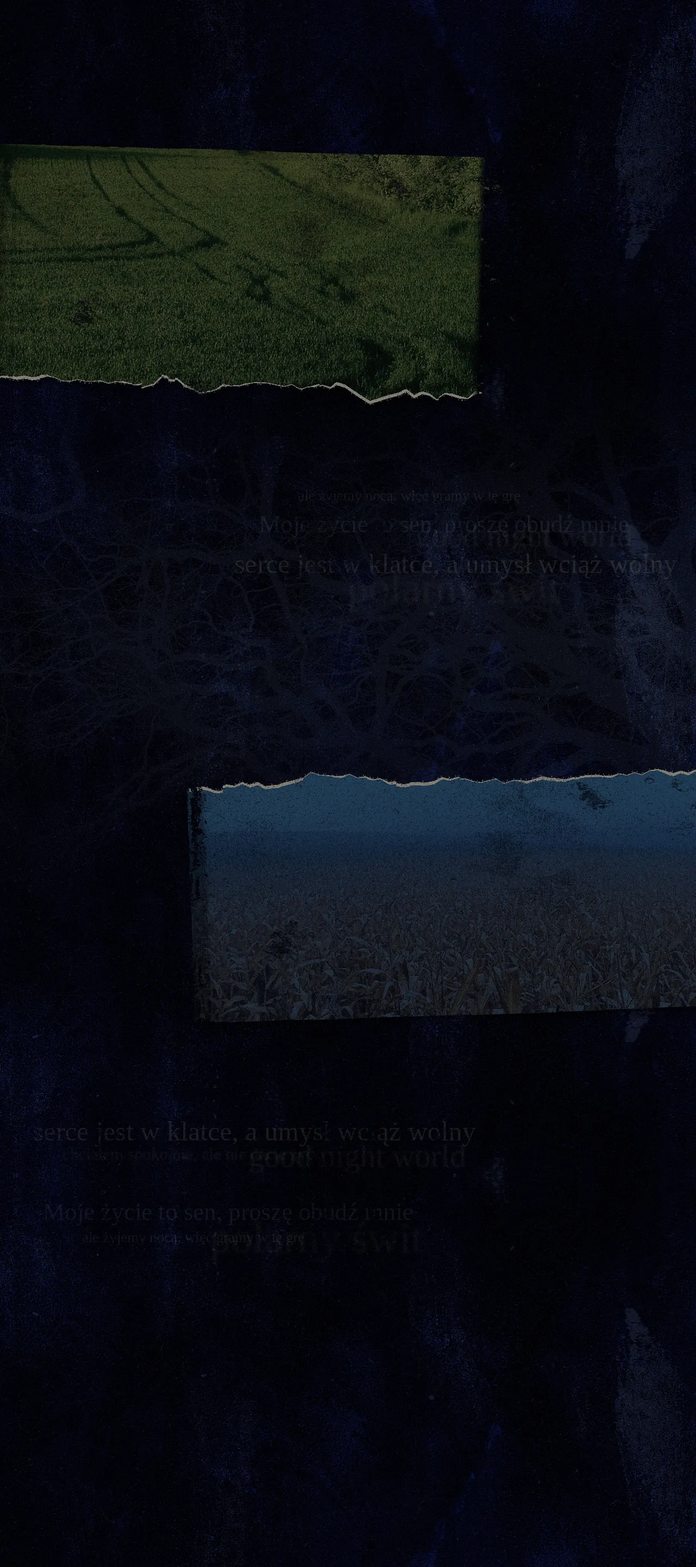
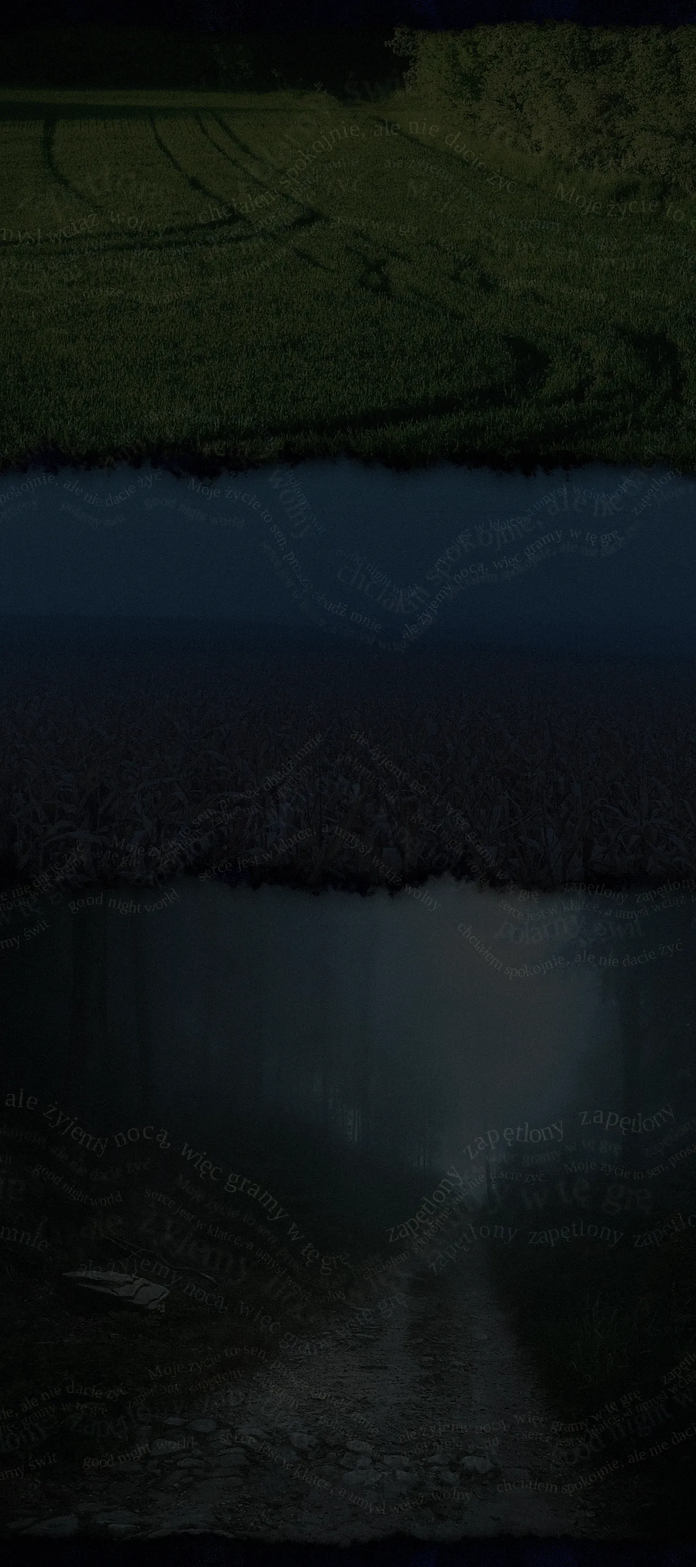
Krzyk: przedłużony kolaż, ciemne tła na całą szerokość i tekst wijący się falami
Kolaż przedłużony w dół: zdjęcia ucięte dolną krawędzią kadru (gałęzie,
czerwona postać, wieża, duch lasu, dom, ramka stempla) pokazane w całości
i postrzępione od dołu ciemnym, wyżartym strzępem bez jasnych brzegów;
górne 720 px kolażu bez zmian, ziemia kolażu płynnie gaśnie w tło strony.

Pod kolażem ciemne zdjęcia natury na całą szerokość jako tła, jedno pod
drugim, nachodzące na siebie postrzępionymi krawędziami; światła
przygaszone, jednakowa ciemna ekspozycja. Szwy na granicach powtarzanej
części wyglądają jak zwykłe darcie.

Tekst piosenek jak w Ergo Proxy: wersy wiją się falami przez całą stronę
jako tekstura (litera po literze wzdłuż krzywej, różne wielkości, część
rozmyta, wyżarte kurzem, w trybie screen).

Telefon: cały kolaż na szerokość ekranu, więc napis KRZYK leży tak samo
jak na komputerze; treść zaczyna się pod ramką stempla.

Claude-Session: https://claude.ai/code/session_01XYkKRxVWxhQVw3hCszqGrr

diff --git a/src/app/globals.css b/src/app/globals.css
@@ -134,7 +134,7 @@ button{-webkit-user-select:none;user-select:none}
 
 /* Krzyk: tło w trzech warstwach (góra: kolaż z rozdartym dołem i paski zdjęć natury schodzące w dół, środek: ciemne tło z tekstem powtarzane pionowo,
    dół: rozpuszczenie w czerń); wymiary liczone od szerokości strony (cqw), bo obrazy skalują się do 100% szerokości */
-.sec.krzyk{max-width:none;padding:0;position:relative;container-type:inline-size;--toph:337.5cqw;--pad:60cqw;background:#04050a;min-height:100svh;overflow-x:clip}
+.sec.krzyk{max-width:none;padding:0;position:relative;container-type:inline-size;--toph:337.5cqw;--pad:66cqw;background:#04050a;min-height:100svh;overflow-x:clip}
 .k-bgs{position:absolute;inset:0;pointer-events:none;
   background-image:var(--bt),var(--bm);background-repeat:no-repeat,repeat-y;
   background-position:top center,center var(--toph);background-size:100% auto}
@@ -142,7 +142,7 @@ button{-webkit-user-select:none;user-select:none}
 .k-body{position:relative;z-index:2;width:84%;margin:0 auto;padding:var(--pad) 0 0}
 .k-body :is(p,h1,h2,.k-lv){text-shadow:0 0 6px #000,0 0 14px #000,1px 1px 0 #000}
 @media (max-width:700px){
-  .sec.krzyk{--toph:450cqw;--pad:93cqw}
+  .sec.krzyk{--toph:450cqw;--pad:66cqw}
   .k-bgs{background-image:var(--btp),var(--bmp)}
   .k-foot{background-image:var(--bbp)}
   .k-body{width:92%}
